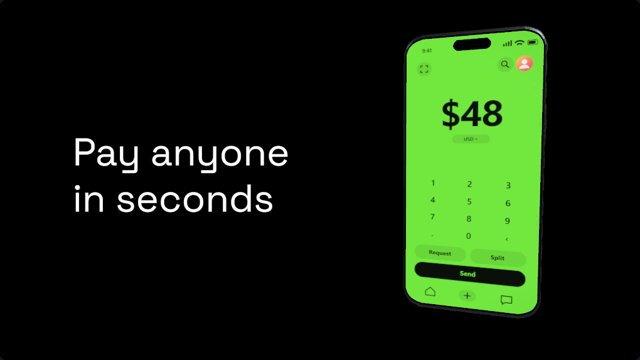
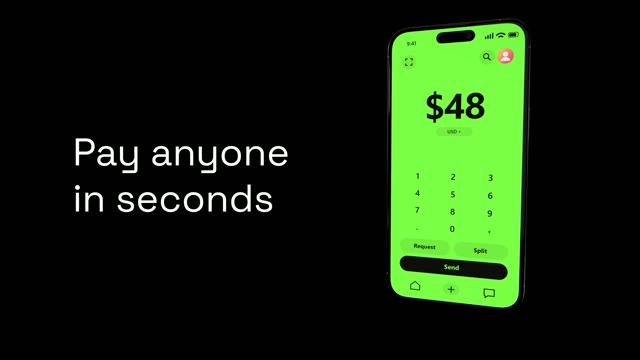
Fintech şablonu: referans videodan 60 kare/sn'de kare kare ölçülen zamanlama
- Kesmeler referansla aynı karelerde (181, 473, 658, 838, 977), süre 1157 kare
- Giriş/çıkış eğrileri ölçülen konumlara uydurulmuş bezier'ler; çekim pozları yeniden
- 4. çekim sonunda kamera içeri girişi, logo büyüyerek elmastan kareye, kapanış yerine oturur
- Parlama (bloom) kapalı; şablon kartı önizlemesi yeniden üretildi
- fitClip blok başlangıçlarını mikro saniyeye yuvarlar (kare hassasiyetli kesmeler için)
- Geliştirme modunda window.__bridge ve window.__templates (tek kare çizimi / otomasyon)

diff --git a/src/project/templates.ts b/src/project/templates.ts
@@ -82,7 +82,8 @@ export function fitClip(layer: Layer, total: number): Layer {
   const end = last >= total - step - 1e-9 ? total : Math.min(total, Math.round((closing.length ? Math.min(...closing) : last + step) * 100) / 100)
   const duration = Math.round((end - start) * 100) / 100
   const blocks = layer.blocks
-    .map((b) => ({ ...b, start: Math.round((b.start - start) * 1000) / 1000 }))
+    // kare hassasiyetindeki (1/60 sn) başlangıçlar bozulmasın diye mikro saniyeye yuvarlanır
+    .map((b) => ({ ...b, start: Math.round((b.start - start) * 1e6) / 1e6 }))
     // Klibin kenarındaki anlık (0 sn) belirme/kaybolma blokları sert kesme içindi; artık klip yapıyor.
     .filter((b) => {
       if (b.duration > 0.001) return true
@@ -186,10 +187,15 @@ export const TEMPLATES: Template[] = [
       // Her çekimde tek uzun hareket: hızlı girer, çekim boyunca yavaşlayarak süzülmeye devam eder
       // (iki ayrı blok hızda kırılma yapıyor). Katmanın konumu çekimin başındaki poz.
       const screen = `${import.meta.env.BASE_URL}templates/screens/fintech.png`
+      // Referans 60 kare/sn: kesmeler kare numarasıyla (f(181) = 181. kare).
+      const f = (frame: number) => frame / 60
+      // Çekim girişi: referanstan ölçüldü (yolun %31'i 0.25 sn'de, %62'si 0.5 sn'de, %85'i 1 sn'de).
+      const ENTRY: [number, number, number, number] = [0.2, 0.6, 0.05, 1]
+      // logo halkası ve iç kare birlikte büyür (%65 → %100)
+      const logoGrow = b('move', f(838), 0.7, { params: { dx: 0, scaleBy: 1 / 0.65 }, easing: 'ease-out' })
       const cut = (from: number, to: number) => [b('fade-in', from, 0), b('fade-out', to, 0)]
-      const glide = (start: number, duration: number, params: Record<string, number>) =>
-        b('move', start, duration, { params: { dx: 0, ...params }, easing: 'custom', bezier: [0.03, 0.95, 0.12, 1] })
-      const whip = (start: number, duration: number, params: Record<string, number>) => b('move', start, duration, { params: { dx: 0, ...params }, easing: 'ease-in' })
+      const glide = (start: number, duration: number, params: Record<string, number>, bezier: [number, number, number, number] = [0.03, 0.95, 0.12, 1]) =>
+        b('move', start, duration, { params: { dx: 0, ...params }, easing: 'custom', bezier })
       const focus = (at: number, z: number, blur = 1) => b('focus-pull', at, 0, { params: { from: z, to: z, blur } })
       const phone = (n: number, spec: Omit<LayerSpec, 'name' | 'kind' | 'color'>) =>
         layer({ name: `${t('layerNames.phone')} ${n}`, kind: 'phone', color: '#72e83f', image: screen, deviceFinish: 'space', ...spec })
@@ -197,46 +203,76 @@ export const TEMPLATES: Template[] = [
       return {
         ...project(
           t('templates.fintech.name'),
-          19,
+          f(1157),
           '#000000',
           [
             // 1) Alt kenar yakın çekim: yukarıdan iner, çekim boyunca yavaşlayarak aşağı süzülür.
             phone(1, {
-              position: [0.15, 5.4, 2],
-              rotation: [-28, 0, -21],
-              scale: 2.6,
-              blocks: [...cut(0, 3), glide(0, 3, { dx: 0.35, dy: -2.85, rotate: -3 })],
+              position: [0.15, 6.4, -0.3],
+              rotation: [-52, -15, -26],
+              scale: 3.2,
+              blocks: [...cut(0, f(181)), glide(0, f(181), { dx: 0.35, dy: -4.2, rotate: -3 }, ENTRY)],
             }),
             // 2) Üst kenar yakın çekim: sağ alttan girer, sola süzülür; sonda hızlanıp sola çıkar.
             phone(2, {
-              position: [1.3, -3.77, 3.8],
-              rotation: [25, -10, 22],
-              scale: 1.7,
-              blocks: [...cut(3, 7.9), glide(3, 4, { dx: -2.3, dy: 1.9, rotate: -2 }), whip(7, 0.9, { dx: -4.5 })],
+              position: [3.6, -5.9, 1],
+              rotation: [10, -24, 13],
+              scale: 3.15,
+              blocks: [
+                ...cut(f(181), f(473)),
+                glide(f(181), 1.5, { dx: -2.7, dy: 2.23, rotate: -2 }, ENTRY),
+                // çıkış: hiç durmadan yavaşça sola kayar, son yarım saniyede hızlanıp 473. karede kadrajdan çıkar (referanstan ölçüldü)
+                b('move', 4, f(473) - 4, { params: { dx: -6.3, dy: 0.69 }, easing: 'custom', bezier: [0.45, 0.25, 0.9, 0] }),
+              ],
             }),
             // 3) Kasa kenarı: alttan yan dönmüş halde yükselir, kapı gibi açılarak ekrana döner.
             phone(3, {
-              position: [1.5, -5.5, 3.9],
-              rotation: [0, 88, -35],
+              position: [0.5, -5.13, 3.9],
+              rotation: [0, 88, 45],
               scale: 2.3,
-              blocks: [...cut(8, 10.95), glide(8, 2.95, { dx: -1.9, dy: 3.5, rotY: -45, rotate: 40, dz: 0.2 })],
+              blocks: [...cut(f(473), f(658)), glide(f(473), f(658) - f(473), { dy: 3.5, rotY: -63, rotate: -37, dz: 0.2 }, [0.25, 0.3, 0.15, 1])],
             }),
             // 4) Geniş plan: telefon yukarıdan düşer; metin harf harf yumuşakça belirir.
             phone(4, {
-              position: [2.75, 5, -0.5],
+              position: [2.45, 7.3, -0.5],
               rotation: [30, -40, 6],
               scale: 1.45,
-              blocks: [...cut(11, 13.95), glide(11, 2.6, { dy: -5.1, dz: 0.5, rotX: -26, rotY: 18, rotate: -6 }), whip(13.55, 0.4, { dz: 1 })],
+              blocks: [...cut(f(658), f(838)), glide(f(658), 2.6, { dy: -7.1, dz: 0.5, rotX: -26, rotY: 18, rotate: -6 }, [0.15, 0.9, 0.3, 1])],
             }),
-            layer({ ...text, name: `${t('layerNames.title')} 1`, align: 'left', text: t('templates.fintech.line1'), position: [-4.5, 0.42, 0], blocks: [...cut(11.3, 13.95), b('soft-reveal', 11.3, 0.45, { easing: 'linear', params: { softness: 0.35 } })] }),
-            layer({ ...text, name: `${t('layerNames.title')} 2`, align: 'left', text: t('templates.fintech.line2'), position: [-4.5, -0.42, 0], blocks: [...cut(11.9, 13.95), b('soft-reveal', 11.9, 0.45, { easing: 'linear', params: { softness: 0.35 } })] }),
-            // 5) Logo: halka sabit, içindeki kare dönerek elmas olarak yerine oturur.
-            layer({ name: t('layerNames.logo'), kind: 'shape', shape: 'circle', color: '#ffffff', position: [0, 0, 0], scale: 1.4, blocks: [...cut(14, 16.2)] }),
-            layer({ name: `${t('layerNames.logo')} ◆`, kind: 'shape', shape: 'rounded', color: '#000000', position: [0, 0, 0.01], rotation: [0, 0, 180], scale: 0.8, blocks: [...cut(14, 16.2), b('move', 14, 1, { params: { dx: 0, rotate: -135 }, easing: 'ease-out-expo' })] }),
-            // 6) Kapanış: sert kesmeyle gelir
-            layer({ ...text, name: t('layerNames.closing'), text: t('templates.fintech.closing'), fontSize: 0.62, position: [0, 0, 0], blocks: [b('fade-in', 16.25, 0)] }),
+            layer({ ...text, name: `${t('layerNames.title')} 1`, align: 'left', text: t('templates.fintech.line1'), position: [-4.5, 0.42, 0], blocks: [...cut(f(682), f(838)), b('soft-reveal', f(682), 0.45, { easing: 'linear', params: { softness: 0.35 } })] }),
+            layer({ ...text, name: `${t('layerNames.title')} 2`, align: 'left', text: t('templates.fintech.line2'), position: [-4.5, -0.42, 0], blocks: [...cut(f(718), f(838)), b('soft-reveal', f(718), 0.45, { easing: 'linear', params: { softness: 0.35 } })] }),
+            // 5) Logo: kesmeyle %65 boyutunda gelir, 0.7 sn'de büyür; içindeki elmas 1.1 sn'de dönüp düz kareye oturur.
+            layer({ name: t('layerNames.logo'), kind: 'shape', shape: 'circle', color: '#ffffff', position: [0, 0, 0], scale: 0.91, blocks: [...cut(f(838), f(977)), logoGrow] }),
+            layer({
+              name: `${t('layerNames.logo')} ◆`,
+              kind: 'shape',
+              shape: 'rounded',
+              color: '#000000',
+              position: [0, 0, 0.01],
+              rotation: [0, 0, 45],
+              scale: 0.52,
+              blocks: [...cut(f(838), f(977)), logoGrow, b('move', f(838), 1.1, { params: { dx: 0, rotate: -45 }, easing: 'ease-out' })],
+            }),
+            // 6) Kapanış: sert kesmeyle biraz büyük gelir, 0.25 sn'de yerine oturur
+            layer({
+              ...text,
+              name: t('layerNames.closing'),
+              text: t('templates.fintech.closing'),
+              fontSize: 0.78,
+              position: [0, 0, 0],
+              scale: 1.12,
+              blocks: [b('fade-in', f(977), 0), b('move', f(977), 0.25, { params: { dx: 0, scaleBy: 1 / 1.12 }, easing: 'ease-out' })],
+            }),
           ],
-          camera([focus(0, 3.6), focus(3, 3.9), focus(8, 4.0, 0.8), focus(11, 0, 0)]),
+          camera([
+            focus(0, 3.6),
+            focus(f(181), 1.2),
+            focus(f(473), 4.0, 0.8),
+            focus(f(658), 0, 0),
+            // çekim sonunda kamera hızla içeri girer (metin ve telefon birlikte büyür), sonra logoya kesme
+            b('camera-push', f(826), f(838) - f(826), { params: { distance: 0.7 }, easing: 'ease-in' }),
+            b('camera-pull', f(838), 0, { params: { distance: 0.7 } }),
+          ]),
         ),
         // referans gibi 60 kare/sn; ürün stüdyosu ışığı; yakın çekimlerde güçlü alan derinliği
         fps: 60,
@@ -244,7 +280,8 @@ export const TEMPLATES: Template[] = [
         accentLight: '#9aa4b5',
         effects: {
           dof: { enabled: true, bokeh: 6, range: 1.4 },
-          bloom: { enabled: true, intensity: 0.35, threshold: 0.9 },
+          // referansta parlama (bloom) yok: metin, logo ve telefon kenarları temiz
+          bloom: { enabled: false, intensity: 0.35, threshold: 0.9 },
           vignette: { enabled: true, darkness: 0.35 },
           motionBlur: { enabled: true, samples: 6, shutter: 0.5 },
         },

diff --git a/src/components/Stage.tsx b/src/components/Stage.tsx
@@ -9,6 +9,7 @@ import { lensFrame, lensPasses, resolveEffects, type ProjectEffects } from '../e
 import { evaluate } from '../engine/evaluate'
 import { manualTransformPatch, snapToGuides } from '../engine/manualTransform'
 import type { Layer, LayerState, Project } from '../engine/types'
+import * as bridgeModule from '../export/bridge'
 import { exportBridge, renderTimeOverride } from '../export/bridge'
 import { gizmoJustReleased, manualDrag, useEditorStore } from '../store/editorStore'
 import { FlareEffect, LensEffect, LightLeakEffect } from '../render/lensEffects'
@@ -248,7 +249,8 @@ function ExportBridge() {
 
   // Otomatik tarayıcı testleri için sahneye erişim (sadece geliştirmede).
   useEffect(() => {
-    if (import.meta.env.DEV) Object.assign(window, { __r3f: { scene, camera, canvas: gl.domElement } })
+    // __bridge: tek kare çizimi (sahnenin kullandığı modül örneği; HMR'de başka kopya olabiliyor)
+    if (import.meta.env.DEV) Object.assign(window, { __r3f: { scene, camera, canvas: gl.domElement }, __bridge: bridgeModule })
   }, [scene, camera, gl])
 
   useEffect(() => {

diff --git a/src/main.tsx b/src/main.tsx
@@ -4,11 +4,12 @@ import './i18n'
 import './index.css'
 import './styles/shell.css'
 import App from './App.tsx'
+import { TEMPLATES } from './project/templates'
 import { useEditorStore } from './store/editorStore'
 import { useProjectStore, usePlaybackStore } from './store/projectStore'
 
-// Otomatik testler için geliştirme modunda store'lara erişim.
-if (import.meta.env.DEV) Object.assign(window, { __stores: { project: useProjectStore, playback: usePlaybackStore, editor: useEditorStore } })
+// Otomatik testler için geliştirme modunda store'lara ve şablonlara erişim (sahne köprüsü: Stage.tsx, `__bridge`).
+if (import.meta.env.DEV) Object.assign(window, { __stores: { project: useProjectStore, playback: usePlaybackStore, editor: useEditorStore }, __templates: TEMPLATES })
 
 createRoot(document.getElementById('root')!).render(
   <StrictMode>
